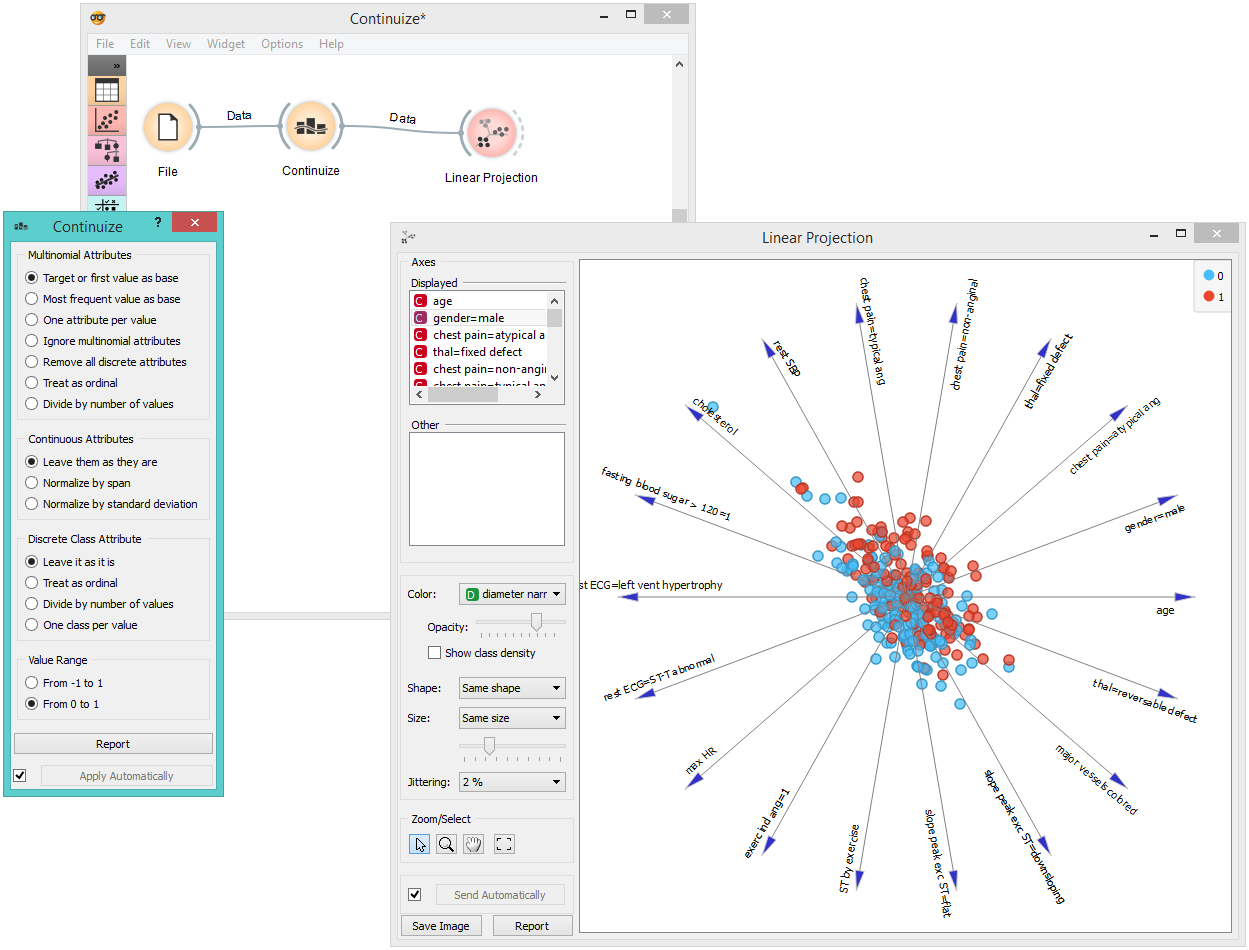
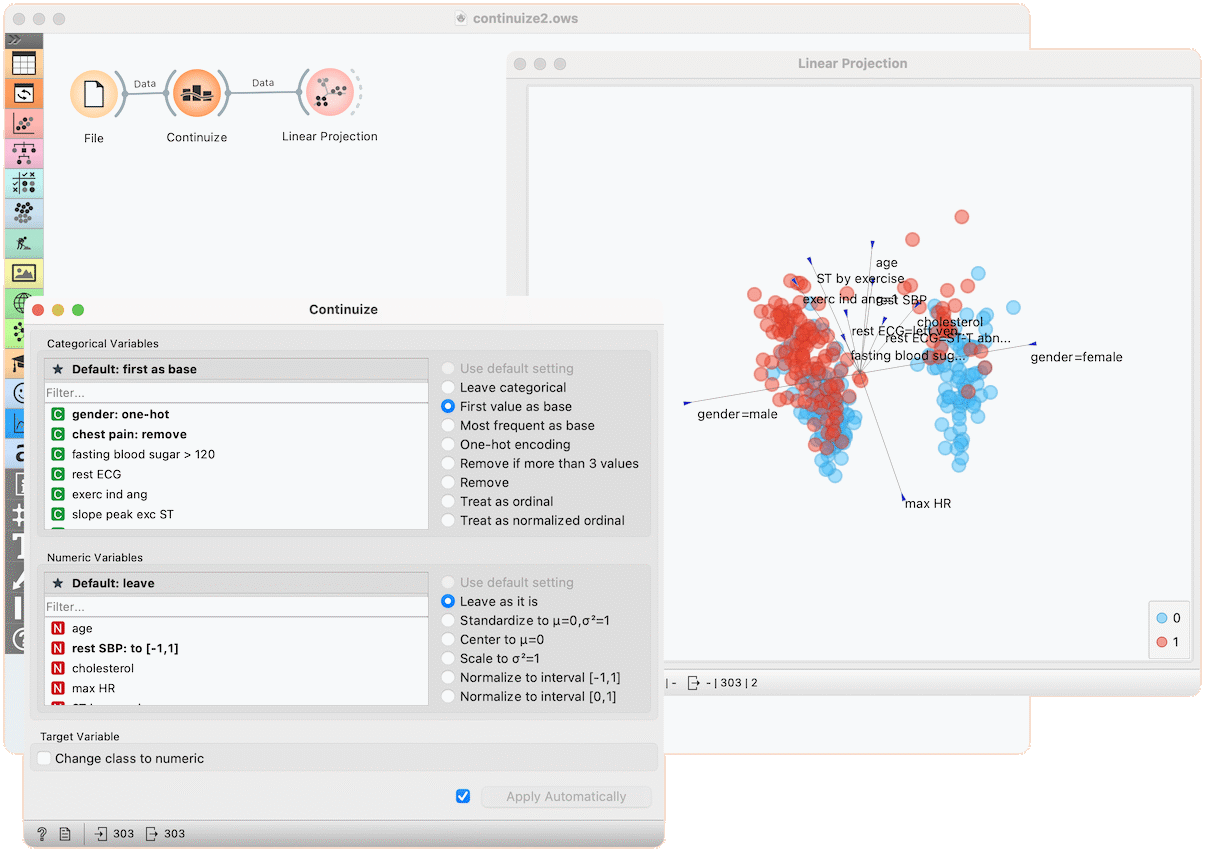
Continuize: Update documentation

diff --git a/doc/visual-programming/source/widgets/data/continuize.md b/doc/visual-programming/source/widgets/data/continuize.md
@@ -11,13 +11,21 @@ Turns discrete variables (attributes) into numeric ("continuous") dummy variable
 
 - Data: transformed data set
 
-The **Continuize** widget receives a data set in the input and outputs the same data set in which the discrete variables (including binary variables) are replaced with continuous ones.
+The **Continuize** widget receives a data set in the input and outputs the same data set in which some or all categorical variables are replaced with continuous ones and numeric variables are scaled.
 
 ![](images/Continuize-stamped.png)
 
-1. Define the treatment of non-binary categorical variables.
+1. Select a categorical attribute to define its specific treatmen, or click the "Deafult" option above to set the default treatment for all categorical attributes without specific settings.
 
-    Examples in this section will assume that we have a discrete attribute status with the values low, middle and high, listed in that order. Options for their transformation are:
+    Multiple attributes can be chosen.
+
+2. Define the treatment of categorical variables.
+
+    Examples in this section will assume that we have a categorical attribute *status* with values *low*, *middle* and *high*, listed in that order. Options for their transformation are:
+
+   - **Use default setting**: use the default treatment.
+
+   - **Leave categorical**: leave the attribute as it is.
 
    - **First value as base**: a N-valued categorical variable will be transformed into N-1 numeric variables, each serving as an indicator for one of the original values except for the base value. The base value is the first value in the list. By default, the values are ordered alphabetically; their order can be changed in [Edit Domain](../data/editdomain).
 
@@ -25,31 +33,37 @@ The **Continuize** widget receives a data set in the input and outputs the same 
 
    - **Most frequent value as base**: similar to the above, except that the most frequent value is used as a base. So, if the most frequent value in the above example is *middle*, then *middle* is considered as the base and the two newly constructed variables are *status=low* and *status=high*.
 
-   - **One attribute per value**: this option constructs one numeric variable per each value of the original variable. In the above case, we would get variables *status=low*, *status=middle* and *status=high*.
+   - **One-hot encoding**: this option constructs one numeric variable per each value of the original variable. In the above case, we would get variables *status=low*, *status=middle* and *status=high*.
 
-   - **Ignore multinomial attributes**: removes non-binary categorical variables from the data.
+   - **Remove if more than 3 values**: removes non-binary categorical variables from the data.
+
+   - **Remove**: removes the attribute.
 
    - **Treat as ordinal**: converts the variable into a single numeric variable enumerating the original values. In the above case, the new variable would have the value of 0 for *low*, 1 for *middle* and 2 for *high*. Again note that the order of values can be set in  [Edit Domain](../data/editdomain).
 
-   - **Divide by number of values**: same as above, except that values are normalized into range 0-1. In our example, the values of the new variable would be 0, 0.5 and 1.
+   - **Treat as normalized ordinal**: same as above, except that values are normalized into range 0-1. In our example, the values of the new variable would be 0, 0.5 and 1.
 
-2. Define the treatment of continuous attributes. Besised the option to *Leave them as they are*, we can *Normalize by span*, which will subtract the lowest value found in the data and divide by the span, so all values will fit into [0, 1]. Option *Normalize by standard deviation* subtracts the average and divides by the standard deviation.
+3. Select attributes to set individual treatments or click "Default" to set the default treatment for numeric attributes.
 
-3. Define the treatment of class attributes (outcomes, targets). Besides leaving it as it is, the available options mirror those for multinomial attributes, except for those that would split the outcome into multiple outcome variables.
+4. Define the treatment of numeric attributes. 
 
-4. This option defines the ranges of new variables. In the above text, we supposed the range *from 0 to 1*.
-
-5. Produce a report.
-
-6. If *Apply automatically* is ticked, changes are committed automatically. Otherwise, you have to press *Apply* after each change.
+   - **Use default setting**: use the general default.
+   - **Leave as it is**: do not change anything.
+   - **Standardize**: subtract the mean and divide by the standard deviation (not available for sparse data).
+   - **Center**: subtract the mean (not available for sparse data).
+   - **Scale**: divide by standard deviation.
+   - **Normalize to interval [-1, 1]**: linearly scale the values into interval [-1, 1] (not available for sparse data)
+   - **Normalize to interval [0, 1]**: linearly scale the values into interval [0, 1] (not available for sparse data)
+ 
+5. If checked, the class attribute is converted in the same fashion as categorical attributes that are treated as ordinal (see above).
 
 Examples
 --------
 
-First, let's see what is the output of the **Continuize** widget. We feed the original data (the *Heart disease* data set) into the [Data Table](../data/datatable) and see how they look like. Then we continuize the discrete values and observe them in another [Data Table](../data/datatable).
+First, let's see what is the output of the **Continuize** widget. We feed the original data (the *Heart disease* data set) into the [Data Table](../data/datatable) and see how they look like. Then we continuize the discrete values using various options and observe them in another [Data Table](../data/datatable).
 
 ![](images/Continuize-Example1.png)
 
-In the second example, we show a typical use of this widget - in order to properly plot the linear projection of the data, discrete attributes need to be converted to continuous ones and that is why we put the data through the **Continuize** widget before drawing it. The attribute "*chest pain*" originally had four values and was transformed into three continuous attributes; similar happened to gender, which was transformed into a single attribute "*gender=female*".
+In the second example, we show a typical use of this widget - in order to properly plot the linear projection of the data, discrete attributes need to be converted to continuous ones and that is why we put the data through the **Continuize** widget before drawing it. Gender, for instance, is transformed into two attributes "*gender=female*" and *gender=male*.
 
 ![](images/Continuize-Example2.png)
